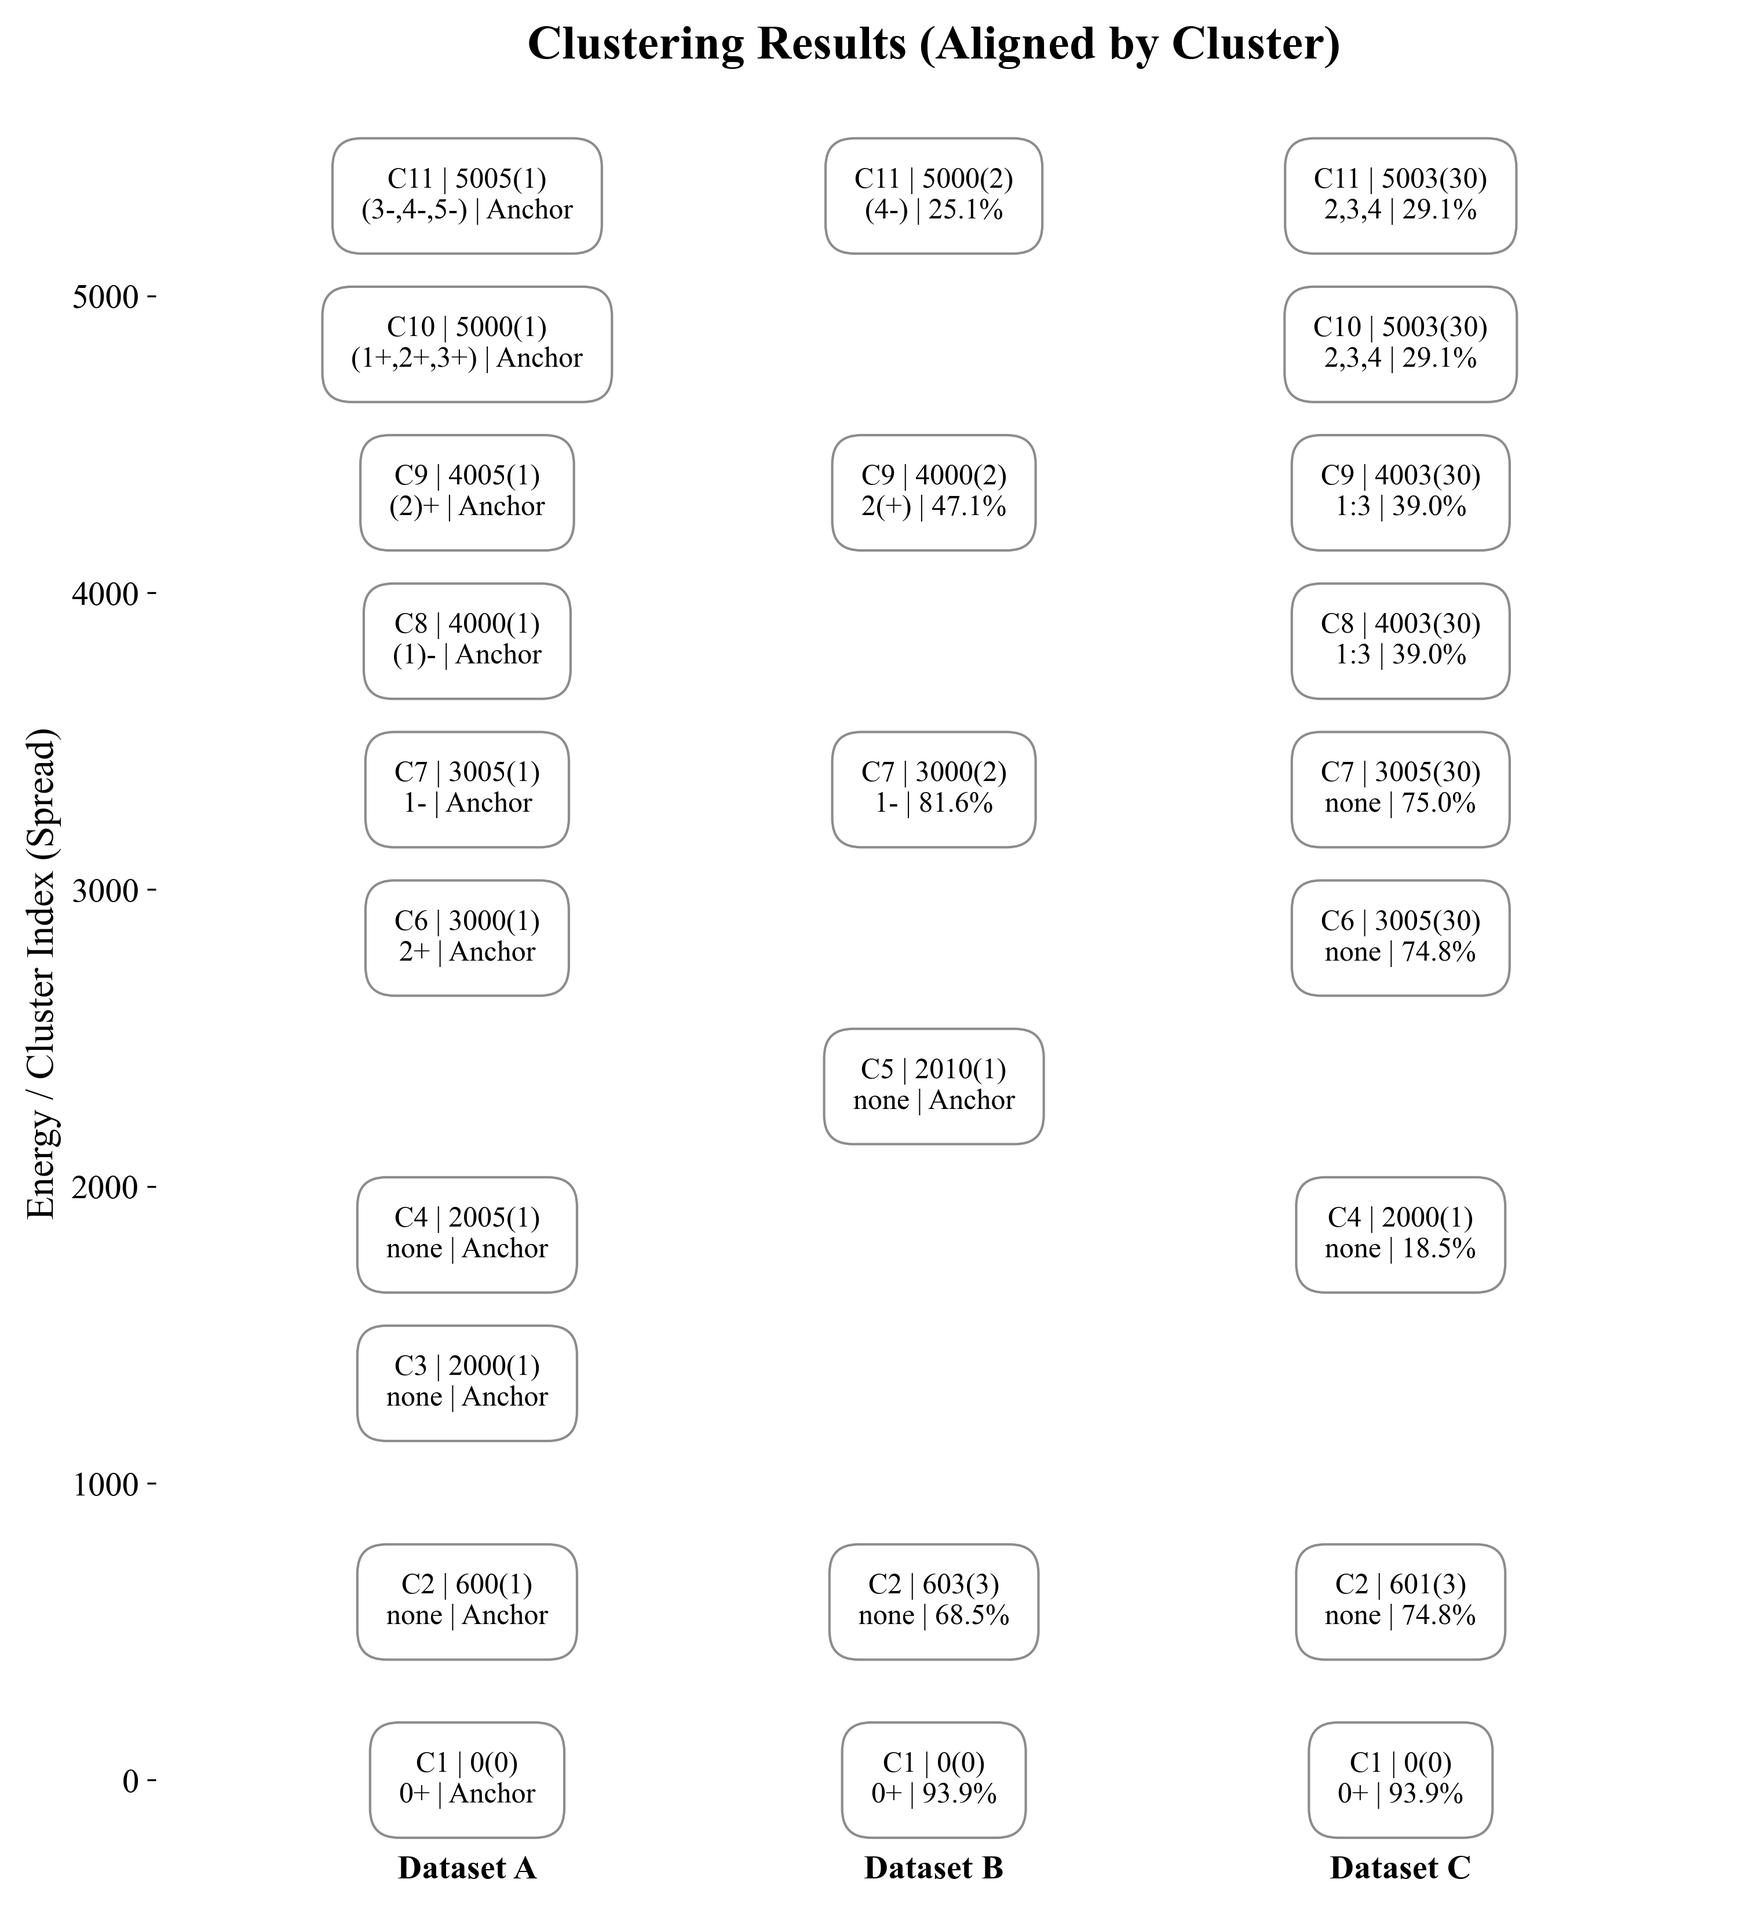
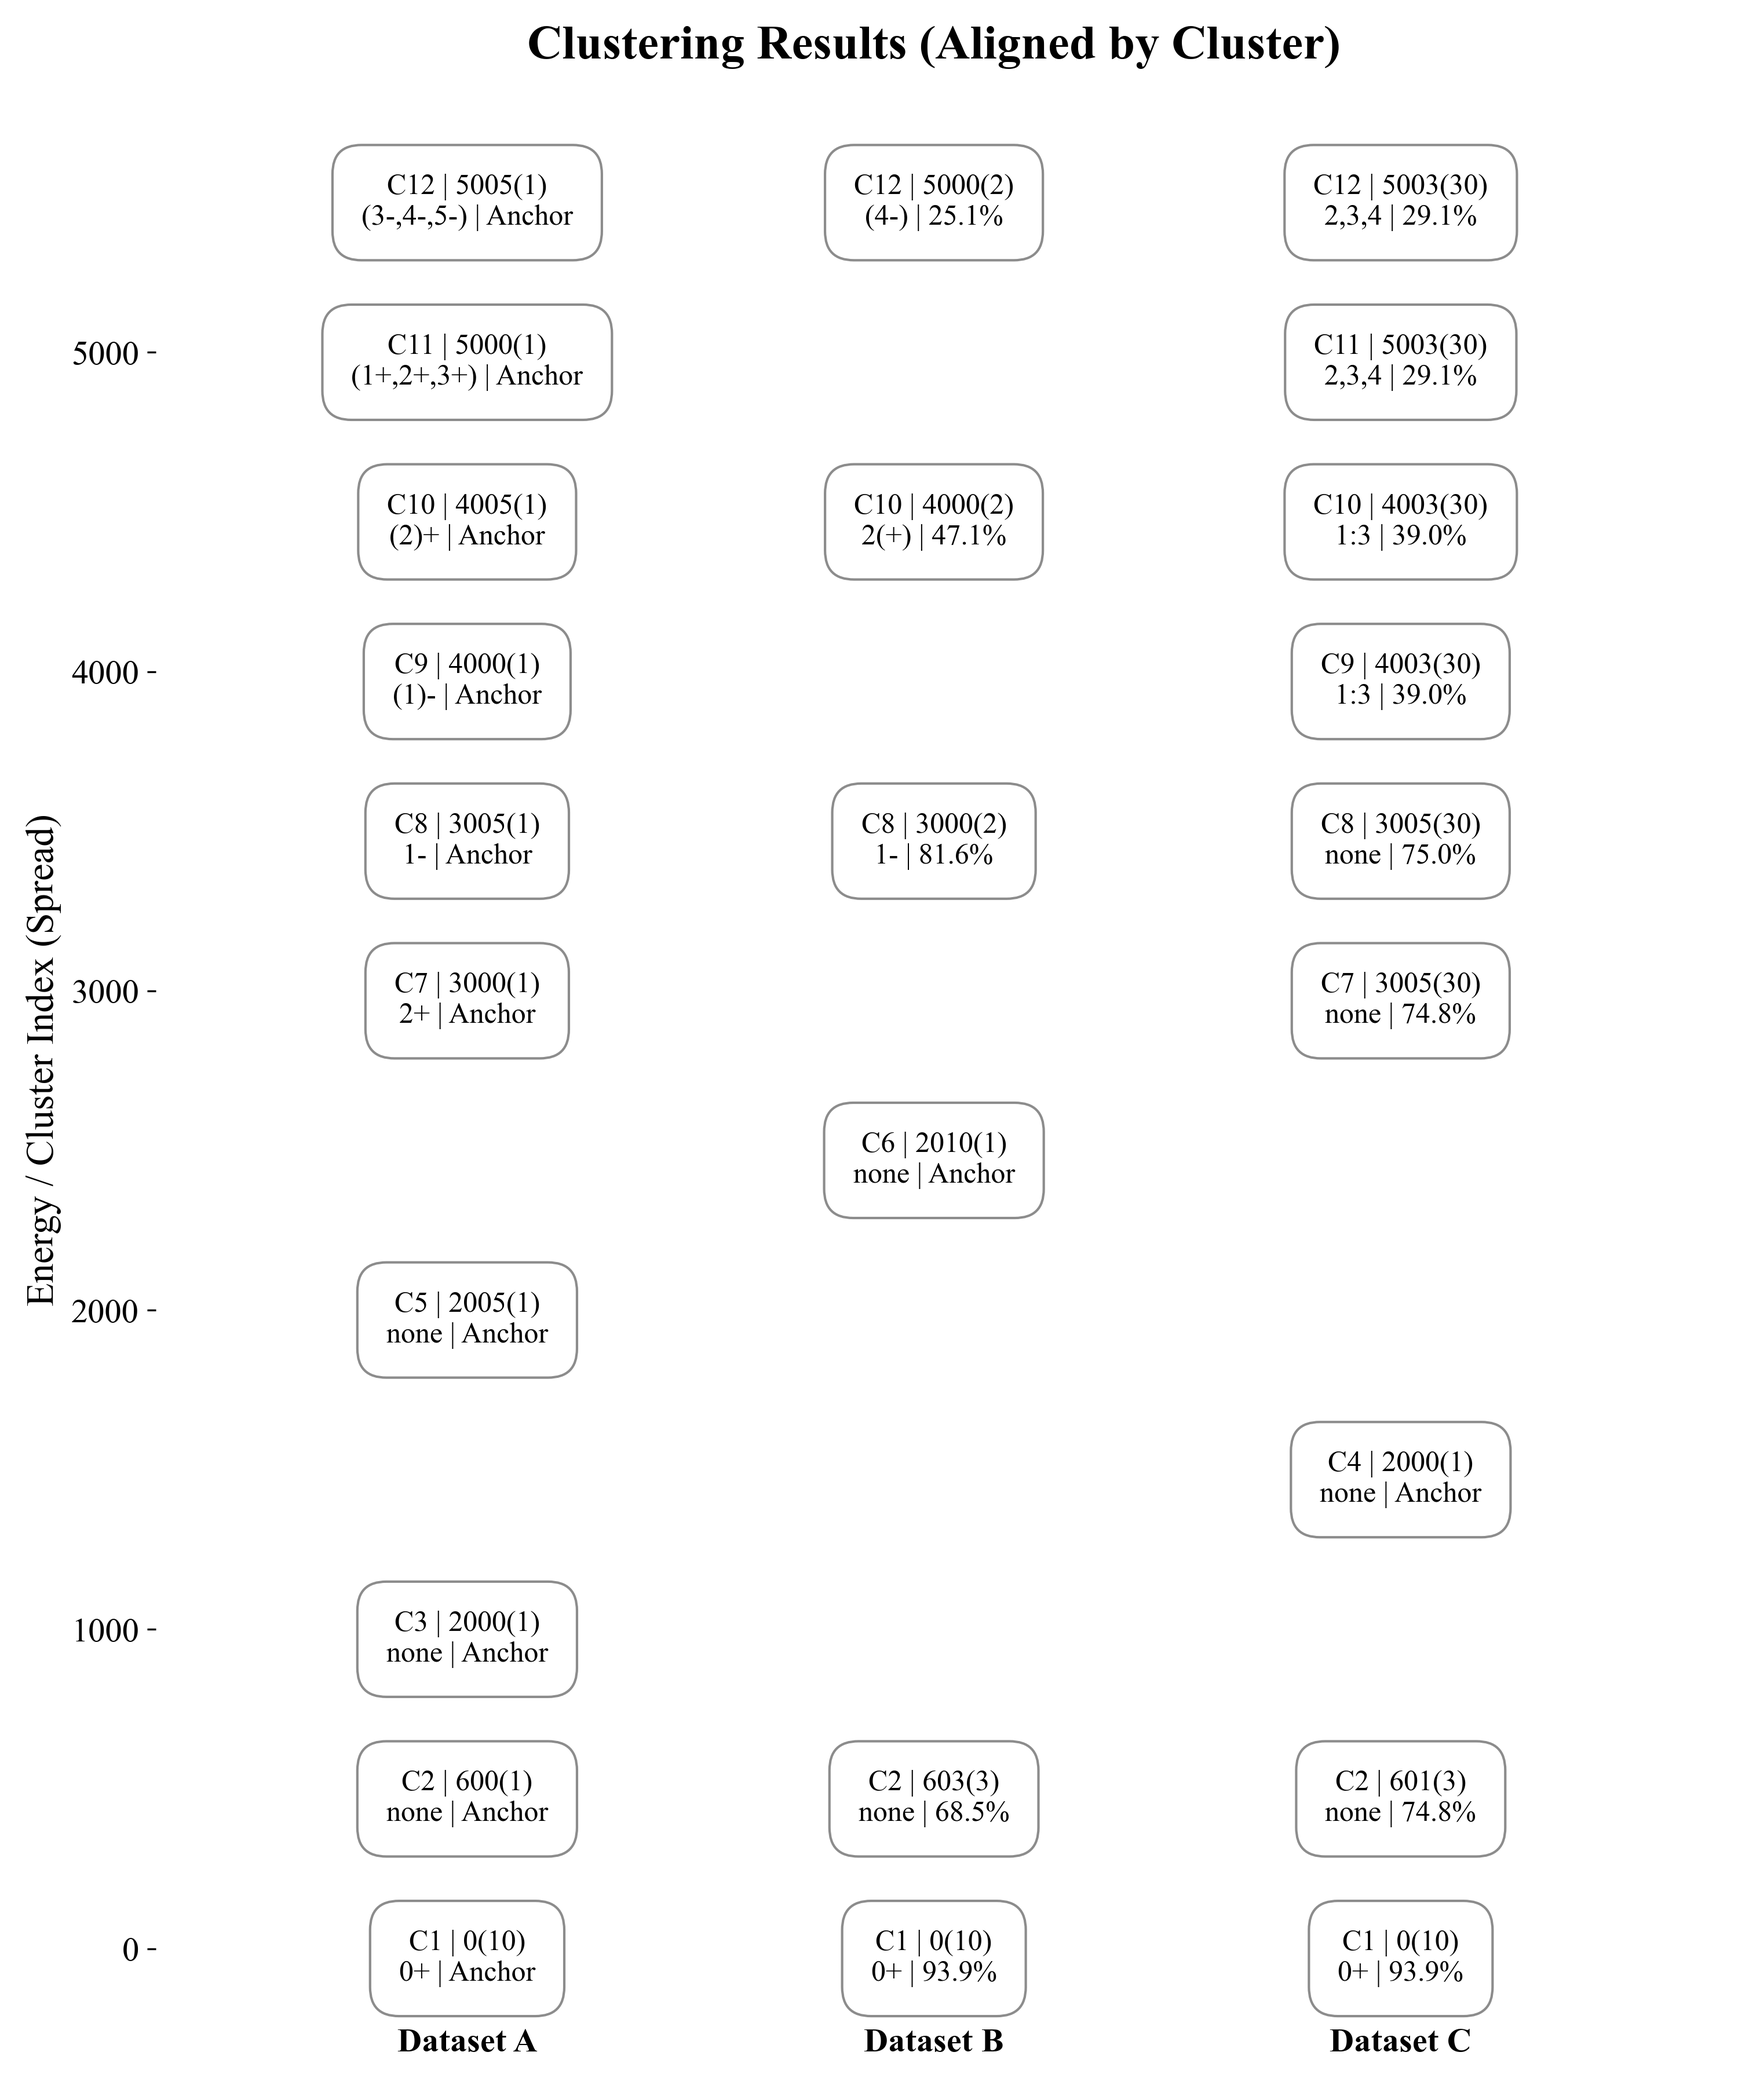
Revamp gamma decay pattern similarity to dual-mode
Updated calculate_gamma_decay_pattern_similarity to use a dual-mode approach: Bray-Curtis similarity for datasets with intensities and Overlap Coefficient for binary (energy-only) data. This improves robustness for both high-quality and legacy nuclear data. Updated documentation and adjusted clustering and inference outputs to reflect new similarity logic.

diff --git a/Feature_Engineer.py b/Feature_Engineer.py
@@ -16,6 +16,7 @@ Feature Engineering For Nuclear Level Matching
 3. **5D Feature Vector** (`extract_features`):
    - Five monotonic-increasing features: [Energy_Similarity, Spin_Similarity, Parity_Similarity, Specificity, Gamma_Decay_Pattern_Similarity].
    - Specificity = 1/f(multiplicity) where formula (sqrt/linear/log/tunable) from Scoring_Config['Specificity'].
+   - Gamma Similarity uses dual-mode: Bray-Curtis (with intensities) or Overlap Coefficient (energy-only).
 
 4. **Training Data** (`generate_synthetic_training_data`):
    - Creates labeled training pairs using grid-based feature space coverage + random sampling (500 points) + perfect-match boost (50 points).
@@ -357,15 +358,28 @@ def calculate_gamma_decay_pattern_similarity(gamma_decays_1, gamma_decays_2):
     
     Physics Rationale:
     - Gamma decay patterns are unique "fingerprints" for nuclear levels.
-    - Uses Cosine Similarity of Gaussian-broadened spectra to compare decay patterns.
-    - Handles energy shifts, missing peaks, and intensity differences naturally.
+    - Old ENSDF data often lacks intensity information or has incomplete coverage.
+    - Dual-mode approach handles both high-quality and legacy data robustly.
     
-    Implementation Strategy:
-    - Represent each level's gamma decay as a continuous spectral function:
-      S(E) = Sum( Intensity_i * Gaussian(E - E_gamma_i, sigma) )
-    - Compute Similarity = Integral(S1 * S2) / Sqrt(Integral(S1^2) * Integral(S2^2))
-      (Cosine Similarity of the spectral functions)
-    - Analytical solution for integral of product of Gaussians is used for efficiency.
+    Implementation Strategy (Dual-Mode):
+    
+    Mode A (Intensity Mode) - Used when BOTH datasets have branching ratios:
+      - Metric: Bray-Curtis Similarity
+      - Formula: 2 × Sum(Min(Intensity_A, Intensity_B)) / (Sum(Intensity_A) + Sum(Intensity_B))
+      - Physics: Calculates "Shared Area" under spectrum. Robust to detector efficiency
+        fluctuations because it ignores non-overlapping excess intensity.
+      - Normalization: Strongest peak scaled to 100.0 (ENSDF convention).
+    
+    Mode B (Binary Mode) - Used when EITHER dataset lacks intensities:
+      - Metric: Overlap Coefficient (Szymkiewicz-Simpson)
+      - Formula: Count(Matches) / Min(Count_A, Count_B)
+      - Physics: Checks for "Subset Behavior". If Dataset A has 2 gammas and both
+        are found in Dataset B (which has 20), score is 1.0. Handles high-resolution
+        vs low-resolution dataset comparisons perfectly.
+    
+    Energy Matching:
+    - Tolerance: ±3.0 keV (accommodates calibration shifts in old data)
+    - Greedy matching: Each gamma in A matches closest energy in B within tolerance
     
     Input Format:
     gamma_decays = [
@@ -373,61 +387,144 @@ def calculate_gamma_decay_pattern_similarity(gamma_decays_1, gamma_decays_2):
         {'energy': 4400.0, 'branching_ratio': 30.0}
     ]
     
-    Parameters:
-    - sigma: Energy resolution from Scoring_Config['Energy']['Default_Uncertainty'] (e.g. 10 keV)
+    Example Scenarios:
+    1. Both with intensities (1000 keV: BR=100, 2000 keV: BR=50):
+       → Uses Bray-Curtis, considers intensity overlap
+    2. One without intensities (only energies listed):
+       → Uses Overlap Coefficient, binary presence/absence
+    3. High-res (20 gammas) vs Low-res (2 gammas):
+       → If 2 gammas found in 20, score=1.0 (perfect subset match)
     """
     # Guard: If either level has no gamma decay data, return neutral score
     if not gamma_decays_1 or not gamma_decays_2:
         return Scoring_Config['General']['Neutral_Score']
     
-    # Extract gamma energies and intensities (default to 1.0 if missing or zero)
-    # Filter out invalid entries
-    def extract_gammas(raw_decays):
-        cleaned = []
-        for g in raw_decays:
-            e = g.get('energy')
-            i = g.get('branching_ratio', 0.0)
-            if e is not None and i > 0:
-                cleaned.append((float(e), float(i)))
-        return cleaned
-
-    gammas_1 = extract_gammas(gamma_decays_1)
-    gammas_2 = extract_gammas(gamma_decays_2)
+    # Energy matching tolerance (keV) - allows for calibration shifts
+    tolerance_kev = 3.0
     
-    # Guard: After filtering, check if any valid gammas remain
-    if not gammas_1 or not gammas_2:
+    # =========================================================================
+    # Phase 1: Data Standardization & Normalization
+    # =========================================================================
+    def process_spectrum(raw_decays):
+        """
+        Parses raw list into clean list of dicts {'energy': value, 'intensity': value}.
+        Detects if valid intensities exist, and normalizes strongest to 100.0.
+        """
+        clean_list = []
+        has_intensity = False
+        max_intensity = 0.0
+        
+        for gamma in raw_decays:
+            # Safely extract values, defaulting to 0.0 if missing
+            energy = float(gamma.get('energy', 0))
+            intensity = float(gamma.get('branching_ratio', 0))
+            
+            # Valid gamma requires positive energy
+            if energy > 0:
+                # Logic: If ANY gamma has intensity > 0, dataset has intensity data
+                if intensity > 0:
+                    has_intensity = True
+                    if intensity > max_intensity:
+                        max_intensity = intensity
+                
+                clean_list.append({'energy': energy, 'intensity': intensity})
+        
+        # Normalize: Scale strongest peak to 100.0 (Standard ENSDF convention)
+        # This aligns the two datasets to the same relative scale
+        if has_intensity and max_intensity > 0:
+            for gamma in clean_list:
+                gamma['intensity'] = (gamma['intensity'] / max_intensity) * 100.0
+        
+        return clean_list, has_intensity
+    
+    # Process both inputs
+    list_A, has_intensity_A = process_spectrum(gamma_decays_1)
+    list_B, has_intensity_B = process_spectrum(gamma_decays_2)
+    
+    # Guard: If normalization resulted in empty lists (all energies were 0), return neutral
+    if not list_A or not list_B:
         return Scoring_Config['General']['Neutral_Score']
     
-    sigma = Scoring_Config['Energy']['Default_Uncertainty']
-    # Precompute squared constants for Gaussian integral (product of two Gaussians)
-    # The term is exp( -(dA - dB)^2 / (2 * (sigma^2 + sigma^2)) ) -> 4*sigma^2
-    sigma_sq_4 = 4 * sigma**2
-    # Limit for correlation calculation optimization (~5 sigma)
-    cutoff_sq = 25 * sigma**2
+    # =========================================================================
+    # Phase 2: Mode Selection & Calculation
+    # =========================================================================
     
-    # Helper to calculate dot product of two spectra
-    # Integral(S_A * S_B) propto Sum_i Sum_j A_i B_j * Exp( -(E_Ai - E_Bj)^2 / 4sigma^2 )
-    def spectrum_dot_product(g_list_a, g_list_b):
-        dot_sum = 0.0
-        for ea, ia in g_list_a:
-            for eb, ib in g_list_b:
-                energy_diff_sq = (ea - eb)**2
-                # Optimization: Ignore negligible terms
-                if energy_diff_sq > cutoff_sq: 
-                    continue
-                weight = np.exp(-energy_diff_sq / sigma_sq_4)
-                dot_sum += ia * ib * weight
-        return dot_sum
-
-    dot_11 = spectrum_dot_product(gammas_1, gammas_1)
-    dot_22 = spectrum_dot_product(gammas_2, gammas_2)
-    dot_12 = spectrum_dot_product(gammas_1, gammas_2)
-    
-    if dot_11 == 0 or dot_22 == 0:
-        return 0.0
+    # -------------------------------------------------------------------------
+    # Mode A: Intensity Mode (Bray-Curtis Similarity)
+    # Triggered only if BOTH datasets have intensity data
+    # -------------------------------------------------------------------------
+    if has_intensity_A and has_intensity_B:
+        intersection_sum = 0.0
+        matched_indices_B = set()  # Track usage to prevent double-counting matches
         
-    similarity = dot_12 / np.sqrt(dot_11 * dot_22)
-    return float(similarity)
+        # Compare every gamma in A against B
+        for gamma_A in list_A:
+            best_match_intensity = 0.0
+            best_index = -1
+            min_energy_diff = 999.0
+            
+            # Greedy Search: Find the closest energy match in B
+            for index, gamma_B in enumerate(list_B):
+                if index in matched_indices_B:
+                    continue  # Don't reuse gammas
+                
+                energy_diff = abs(gamma_A['energy'] - gamma_B['energy'])
+                if energy_diff <= tolerance_kev:
+                    # Pick the closest energy match, not necessarily intensity match
+                    if energy_diff < min_energy_diff:
+                        min_energy_diff = energy_diff
+                        best_match_intensity = gamma_B['intensity']
+                        best_index = index
+            
+            # If a valid match was found within tolerance:
+            if best_index != -1:
+                # Key Physics Logic: Use MINIMUM intensity
+                # If A has 100 and B has 20, they only definitively "share" 20
+                # Using average (60) would hallucinate data B never measured
+                intersection_sum += min(gamma_A['intensity'], best_match_intensity)
+                matched_indices_B.add(best_index)
+        
+        # Calculate totals
+        sum_A = sum(gamma['intensity'] for gamma in list_A)
+        sum_B = sum(gamma['intensity'] for gamma in list_B)
+        
+        # Avoid division by zero
+        if (sum_A + sum_B) == 0:
+            return 0.0
+        
+        # Bray-Curtis Formula: 2 × Intersection / (Total_A + Total_B)
+        return (2.0 * intersection_sum) / (sum_A + sum_B)
+    
+    # -------------------------------------------------------------------------
+    # Mode B: Binary Mode (Overlap Coefficient)
+    # Triggered if EITHER dataset is missing intensities (Energies Only)
+    # -------------------------------------------------------------------------
+    else:
+        matches_count = 0
+        matched_indices_B = set()
+        
+        for gamma_A in list_A:
+            # Search for existence of this energy in B
+            for index, gamma_B in enumerate(list_B):
+                if index in matched_indices_B:
+                    continue
+                
+                if abs(gamma_A['energy'] - gamma_B['energy']) <= tolerance_kev:
+                    matches_count += 1
+                    matched_indices_B.add(index)
+                    break  # Stop looking after first match for this gamma_A
+        
+        # Key Physics Logic: Subset Matching
+        # Divide by the MINIMUM set size
+        # Case: A has 2 gammas, B has 20 gammas
+        # If A's 2 gammas are found in B → Matches=2, Min_Length=2 → Score = 1.0 (Perfect)
+        # This correctly identifies that A is just a "low-stat" version of B
+        min_length = min(len(list_A), len(list_B))
+        
+        if min_length == 0:
+            return 0.0
+        
+        return float(matches_count) / float(min_length)
 
 
 def extract_features(level_1, level_2):
